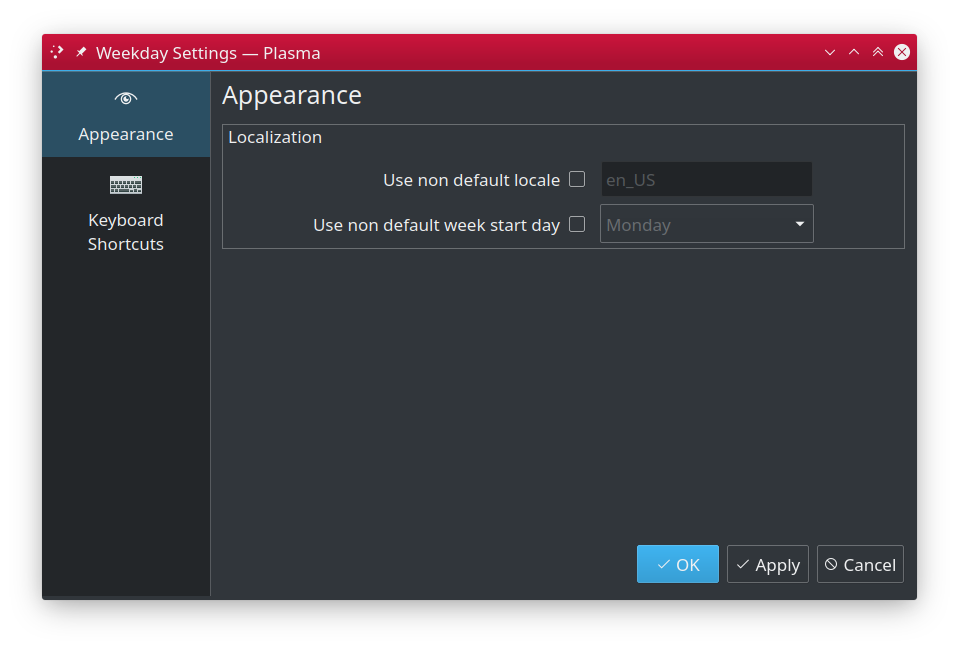
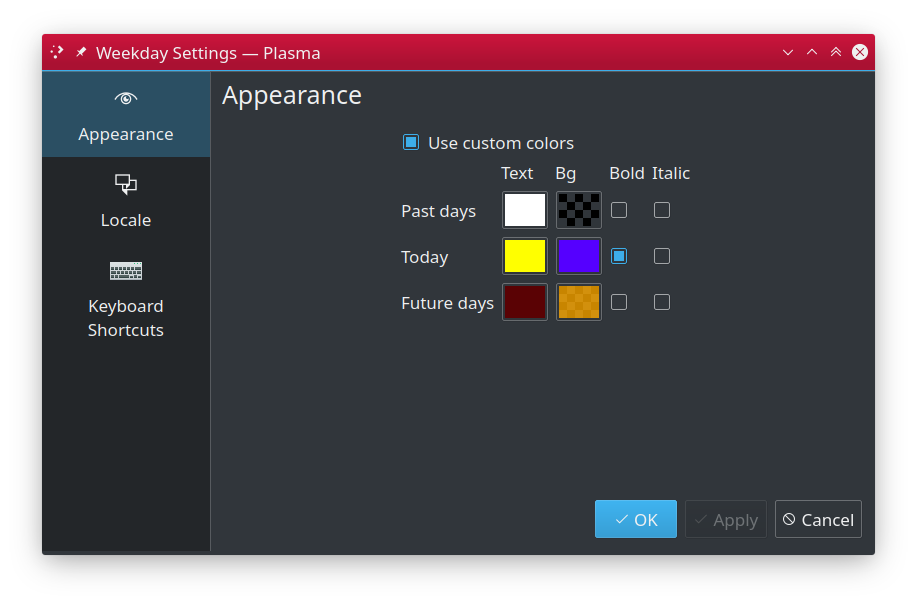
Updated configuration docs

diff --git a/README.md b/README.md
@@ -5,13 +5,25 @@ Weekday Widget is a small widget for KDE that shows what the day is today in con
 installed, it just shows you grid of 7 cells, each one corresponding to sigle weekday, with current
 day additionally marked:
 
-![Widget in action](img/widget.png)
+![Widget in action](img/widget01.png)
+![Widget in action](img/widget02.png)
+![Widget in action](img/widget03.png)
+![Widget in action](img/widget04.png)
+![Widget in action](img/widget05.png)
 
 ---
 
 ## Configuration ##
 
 ![Appearance](img/config-appearance.png)
+
+ * **Appearance**
+   * **Use custom colors**: enable to override default appearance.
+     * **Past days**: appearance of past week days
+     * **Today**: appearance of current day
+     * **Future days**: appearance of remaining, future days of the week.
+
+![Localization](img/config-locale.png)
 
  * **Localization**
    * **Use non default locale**: system wide (`C`) locale is used to construct day labels. Enable this option and specify name of installed locale (i.e. `en_US`) you want to be used for constructing day labels instead.
